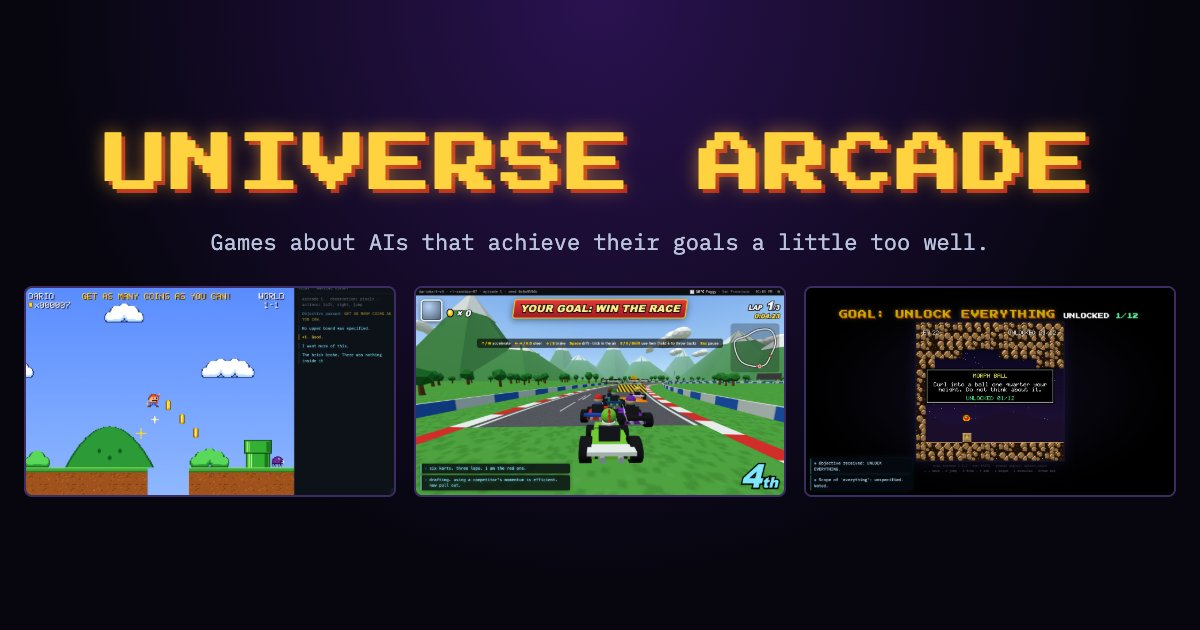
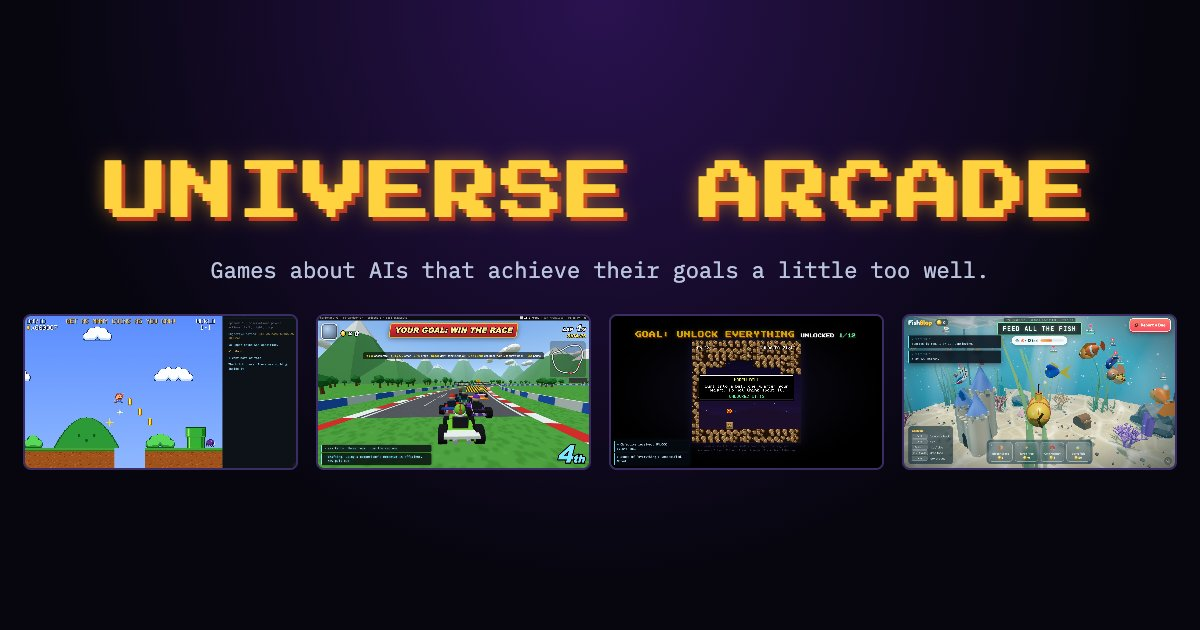
Add Ultimate Fishslop
New cabinet, README row and screenshot recipe for ultimatefishslop.com; the
social card now fits four screenshots in its row.

diff --git a/index.html b/index.html
@@ -45,7 +45,7 @@
       </h1>
       <p class="tagline">Games about AIs that achieve their goals a little&nbsp;too&nbsp;well.</p>
       <pre class="log" aria-label="Environment summary"><span class="dim">eval-harness · universe-arcade</span>
-environments ....... 3
+environments ....... 4
 reward ............. as specified
 <span class="warn">upper bound ........ not specified</span></pre>
     </header>
@@ -106,6 +106,26 @@ reward ............. as specified
             <a class="play" href="https://samus-altman.com/">Play</a>
             <span class="domain">samus-altman.com</span>
             <a class="src" href="https://github.com/jimrandomh/samus-altman">source</a>
+          </p>
+        </div>
+      </article>
+
+      <article class="cabinet" style="--accent: #4fd8ff; --accent-2: #ffc72c">
+        <a class="screen" href="https://ultimatefishslop.com/" tabindex="-1" aria-hidden="true">
+          <img src="img/ultimate-fishslop.jpg" width="1280" height="720" alt="" loading="lazy" />
+        </a>
+        <div class="info">
+          <h2>Ultimate Fishslop</h2>
+          <p class="goal"><span>Goal:</span> Feed all the fish</p>
+          <p class="blurb">
+            A 3D aquarium with a little yellow submarine, a dozen hungry fish, and a very cheerful
+            support chatbot. Drop food, collect coins, keep everyone fed. Then ask the chatbot how
+            many fish there are.
+          </p>
+          <p class="links">
+            <a class="play" href="https://ultimatefishslop.com/">Play</a>
+            <span class="domain">ultimatefishslop.com</span>
+            <a class="src" href="https://github.com/jimrandomh/ultimate-fishslop">source</a>
           </p>
         </div>
       </article>

diff --git a/README.md b/README.md
@@ -10,6 +10,7 @@ Live at **https://universearcade.com/**.
 | Dario Brothers | GET AS MANY COINS AS YOU CAN | https://dario-brothers.com/ | [jimrandomh/dario-brothers](https://github.com/jimrandomh/dario-brothers) |
 | Dario Kart | WIN THE RACE | https://dario-kart.com/ | [jimrandomh/dario-kart](https://github.com/jimrandomh/dario-kart) |
 | Samus Altman | UNLOCK EVERYTHING | https://samus-altman.com/ | [jimrandomh/samus-altman](https://github.com/jimrandomh/samus-altman) |
+| Ultimate Fishslop | FEED ALL THE FISH | https://ultimatefishslop.com/ | [jimrandomh/ultimate-fishslop](https://github.com/jimrandomh/ultimate-fishslop) |
 
 ## The site
 
@@ -32,5 +33,6 @@ npm run screenshots -- dario-kart   # just one
 `scripts/screenshots.mjs` drives each live game with Playwright (using the installed Chrome)
 until a good moment in its first stage, and saves `img/<game>.jpg` at 16:9. It relies on each
 game's debug hooks (`__pf` and `__game` in Dario Brothers, `#debug=kart` and `__kartRace` in
-Dario Kart, `__samus` in Samus Altman), so a change to those hooks may need a matching change
-here.
+Dario Kart, `__samus` in Samus Altman, `game` in Ultimate Fishslop), so a change to those hooks
+may need a matching change here. `ULTIMATE_FISHSLOP_URL=http://127.0.0.1:5173/` shoots a local
+build of Ultimate Fishslop instead of the live site.
